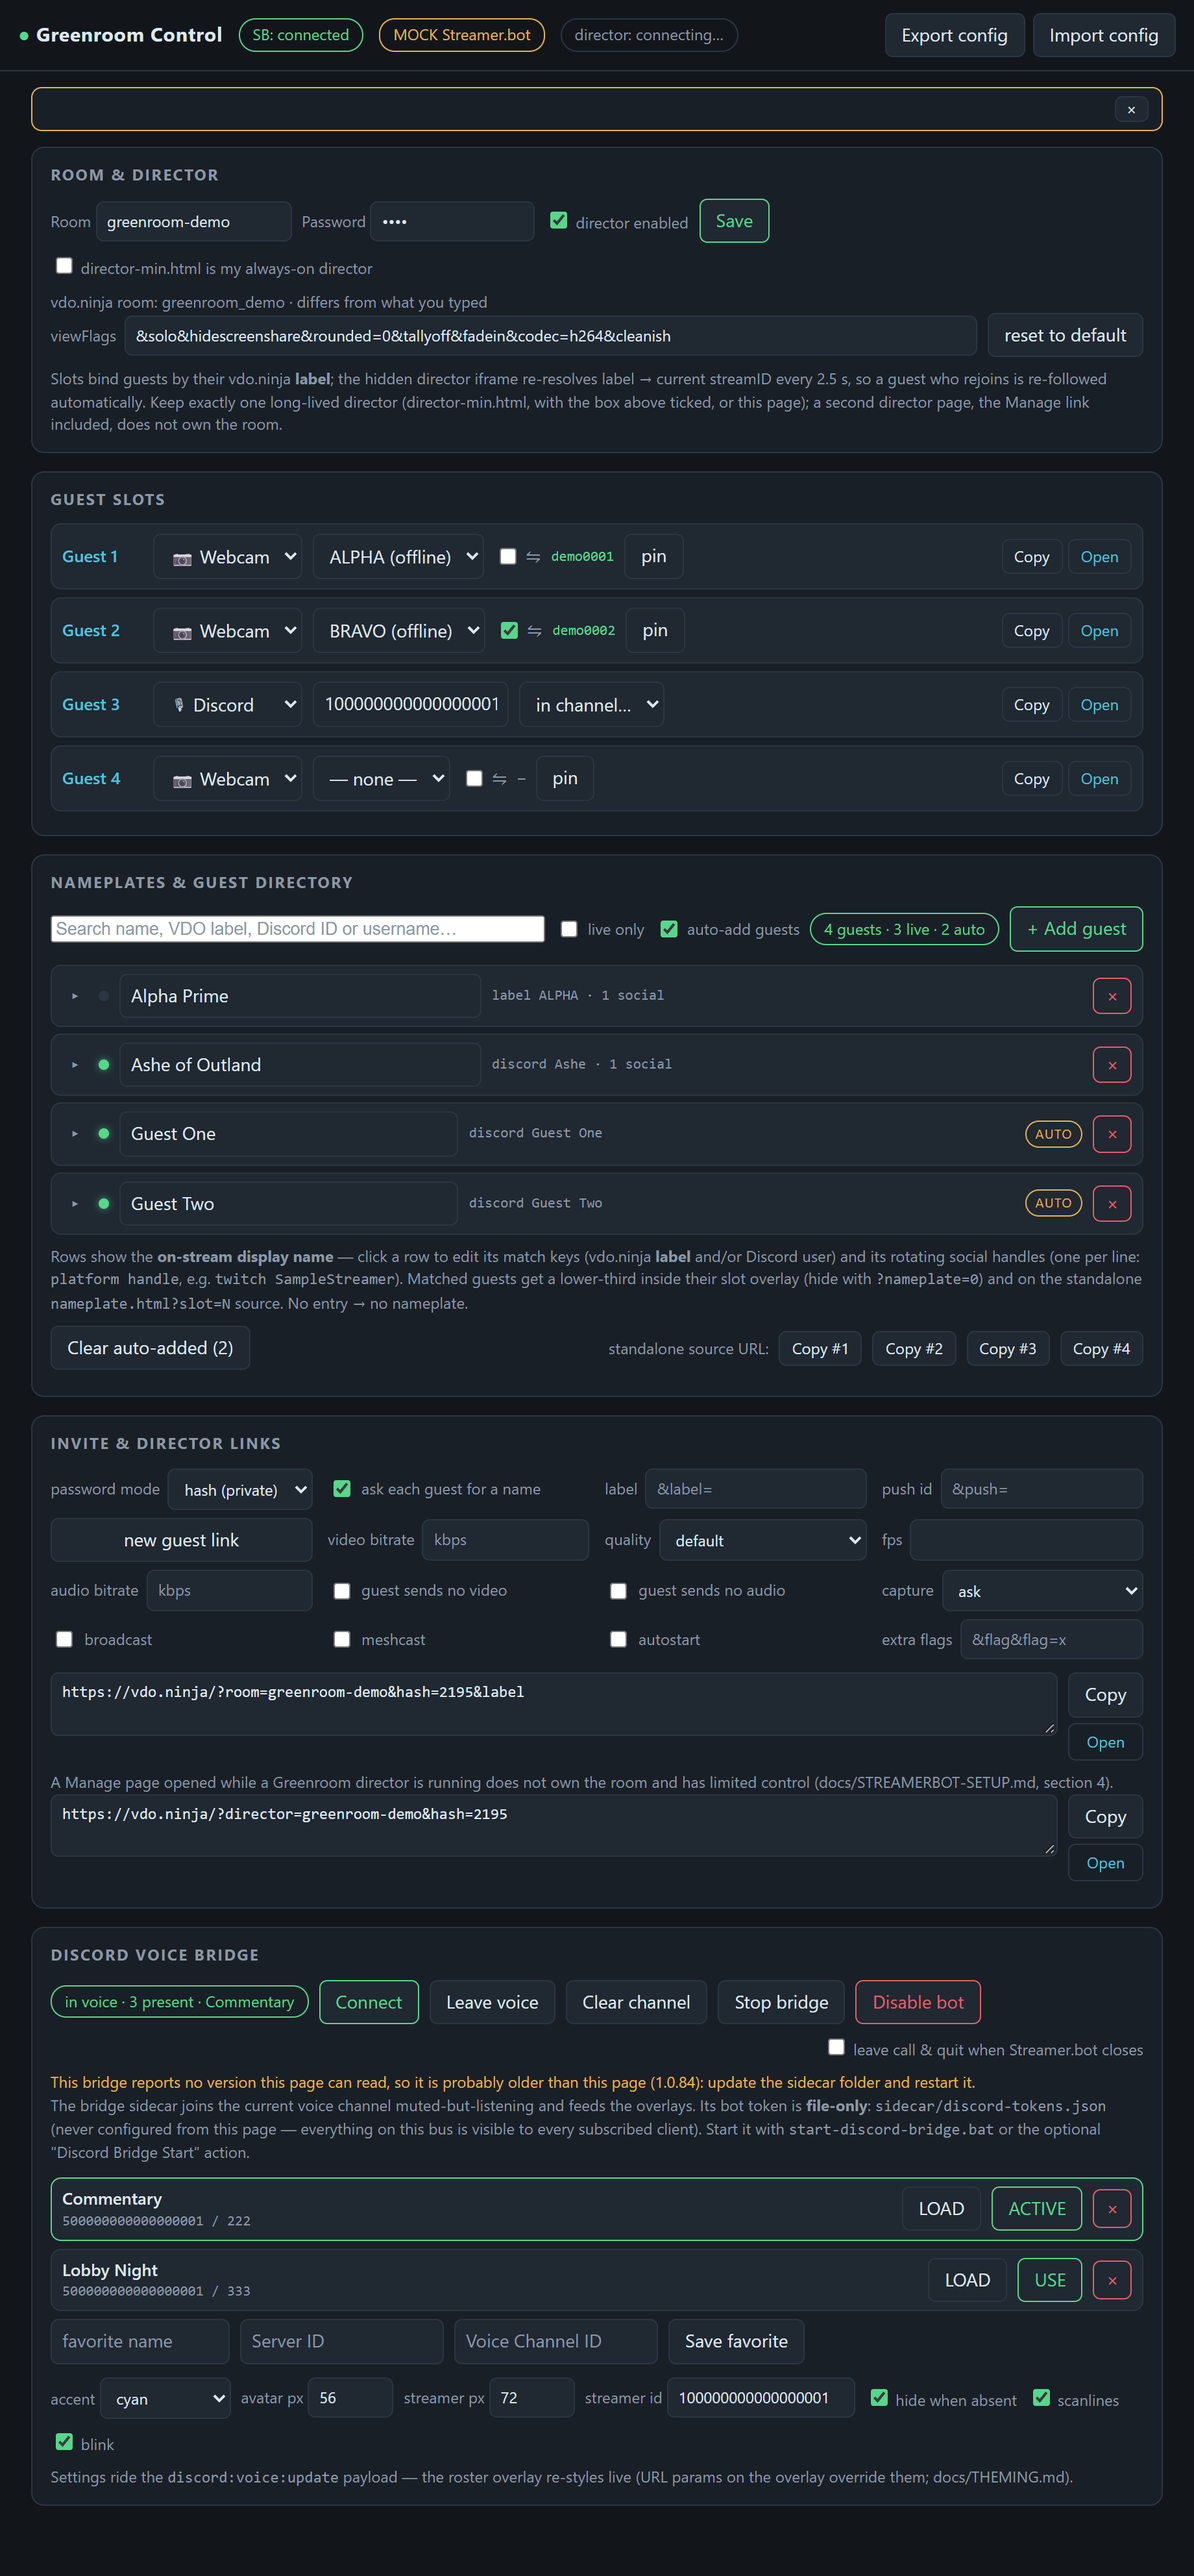
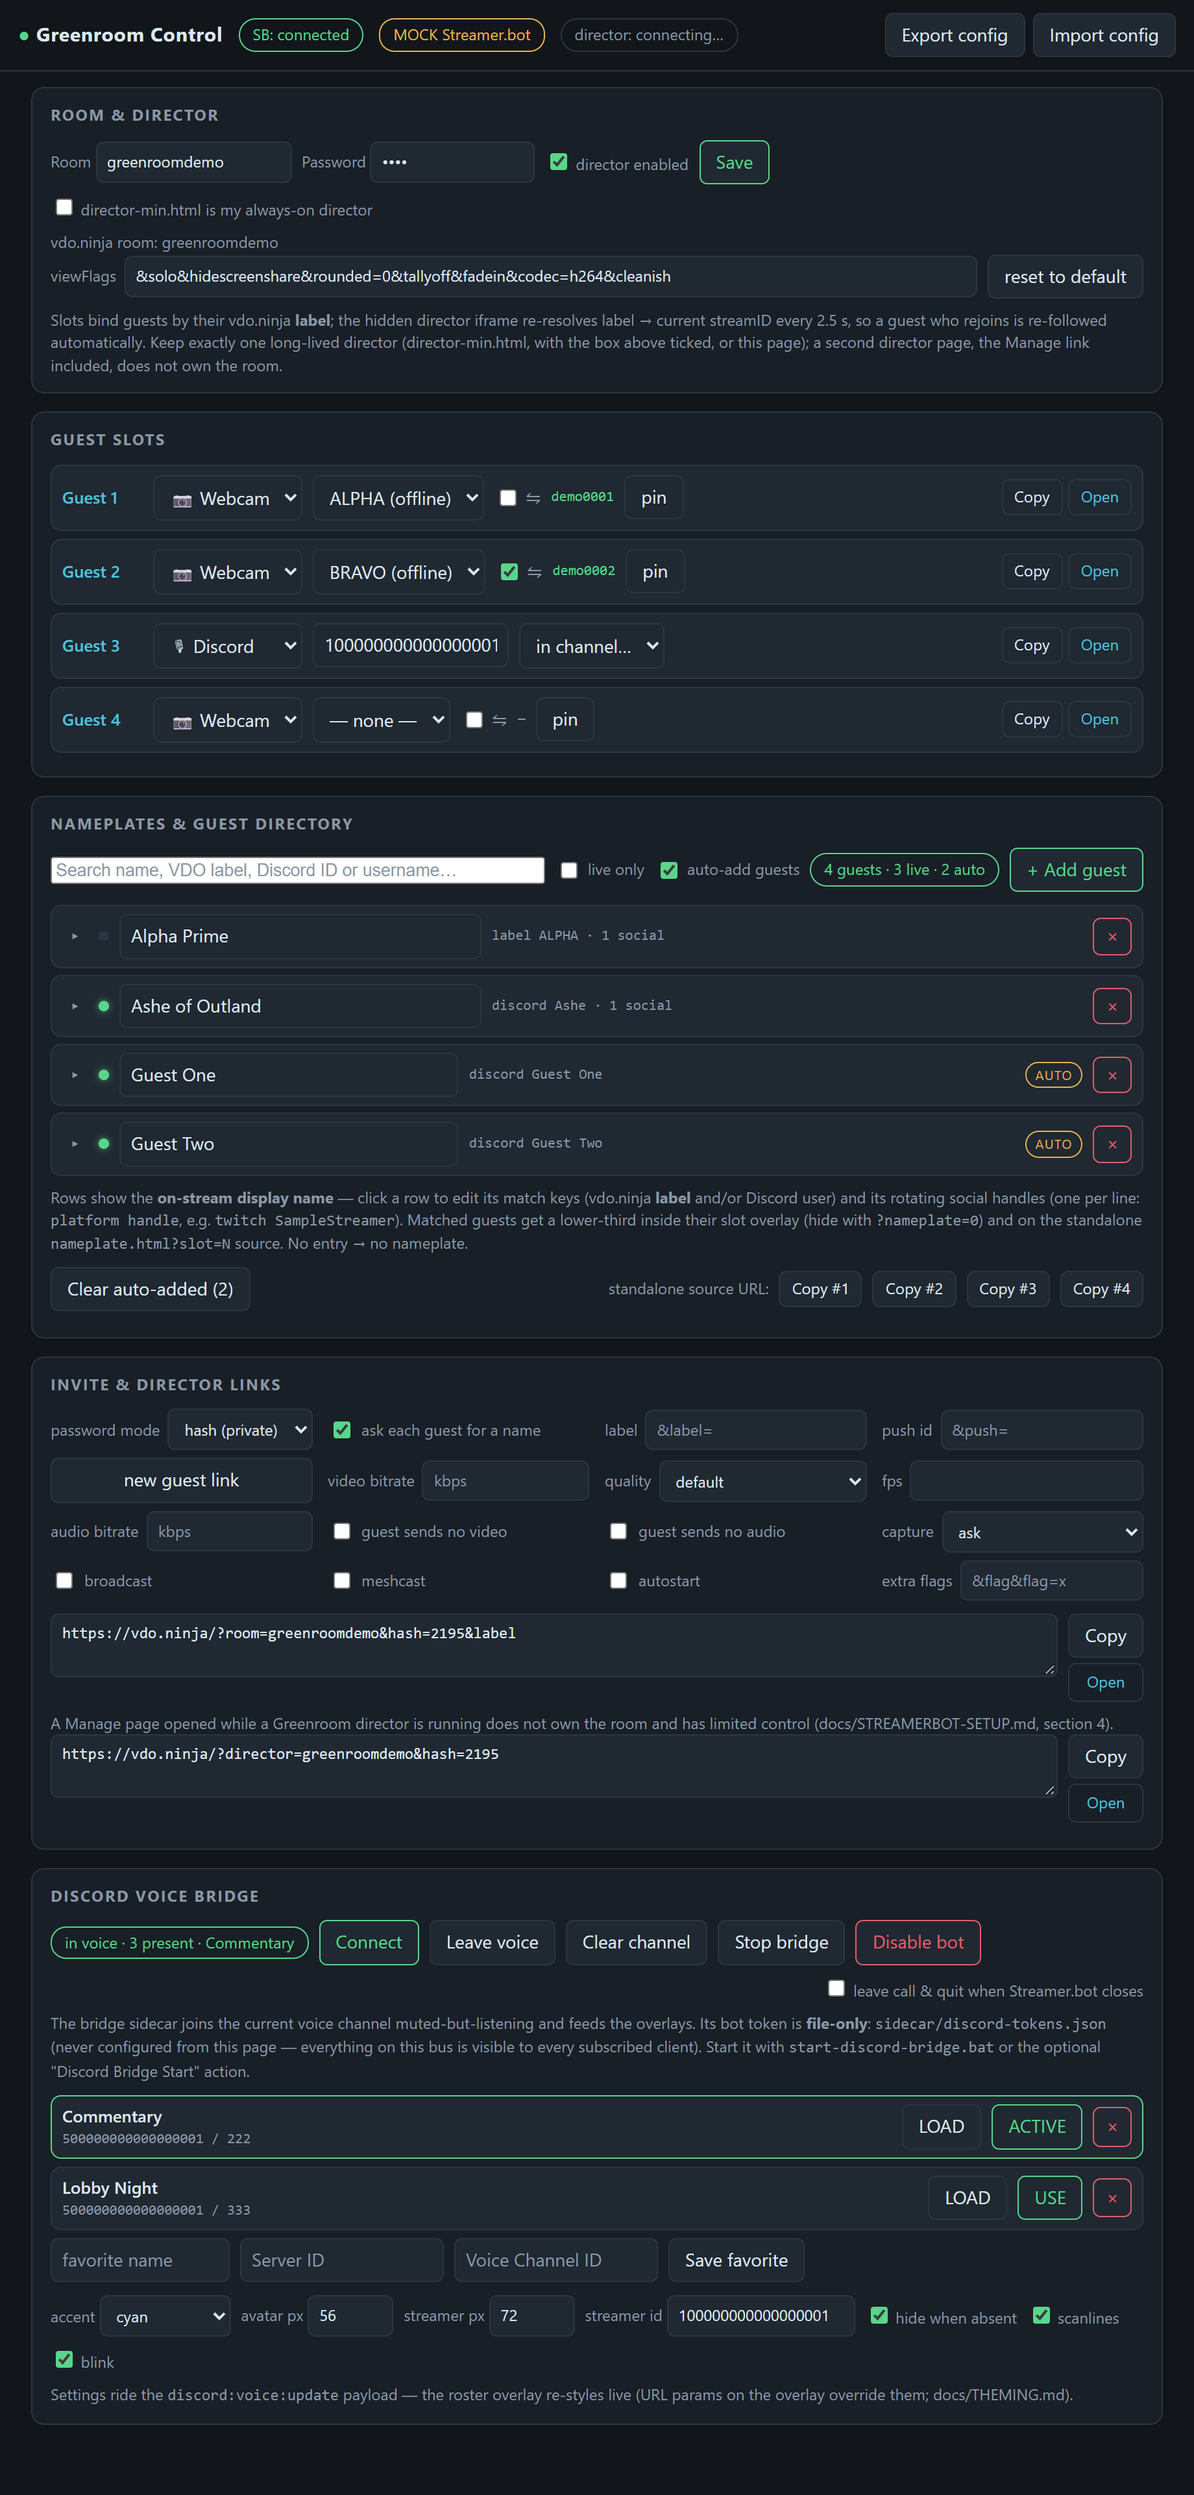
tests, tools, control: the Sprint 19 review fixes
The control page's action-error line was declared display: flex, which overrode its
hidden attribute: an empty amber bar with a × button was on screen at all times since
1.0.81. A new check (R21i0) failed first; R21's visible() helper now asks whether an
element is on screen (computed display, visibility and height), not whether its hidden
attribute is set (it let R21i2 pass while the bar stayed). The rule is
.action-error[hidden] { display: none }. tools/shots.mjs sends a bridge version and a
room name vdo.ninja does not rewrite, and docs/control-page.png is regenerated.

[6c] no longer reads the per-install files a set-up kit holds (the token file, the saved
voice config, backups, atomic-write leftovers), never prints a number it found, and its
scanner is tested on a scratch tree; the check for the three old IDs, which carried them
in pieces, is gone (the generic rule finds them). verify's children get scratch
DISCORD_BRIDGE_TOKENS and DISCORD_BRIDGE_CONFIG by default, so nothing falls back to
sidecar/'s real files. set-current is given ids with a <#> wrapper and a space; the
GRN-218 check's count matches its name.

The flap check measured the wrong things: an uncancelled first countdown ends the
process at about t0 + grace + 1.3 s (the last attempt and the shutdown floor), which
the probe at t0 + grace + 0.5 s and the 3.6 s bound could not see. It now asserts that
the process leaves at least grace + 0.9 s after the SECOND drop and made one last
[…]

diff --git a/control/control.html b/control/control.html
@@ -76,6 +76,7 @@
   .pill.error, .pill.warn, #dvoStatus { white-space: normal; max-width: min(100%, 90ch); border-radius: 12px; }
   input::placeholder, textarea::placeholder { color: var(--dim); opacity: 1; }
   .action-error { display: flex; gap: 8px; align-items: flex-start; padding: 6px 10px; margin: 0 0 12px; border: 1px solid var(--amber); border-radius: 8px; background: var(--panel); }
+  .action-error[hidden] { display: none; } /* (display: flex above would otherwise override the hidden attribute: an empty bar on screen at all times) */
   .action-error span { flex: 1; min-width: 0; overflow-wrap: anywhere; }
   .action-error button { padding: 0 8px; }
   .warn { color: var(--amber); font-size: 12px; }
